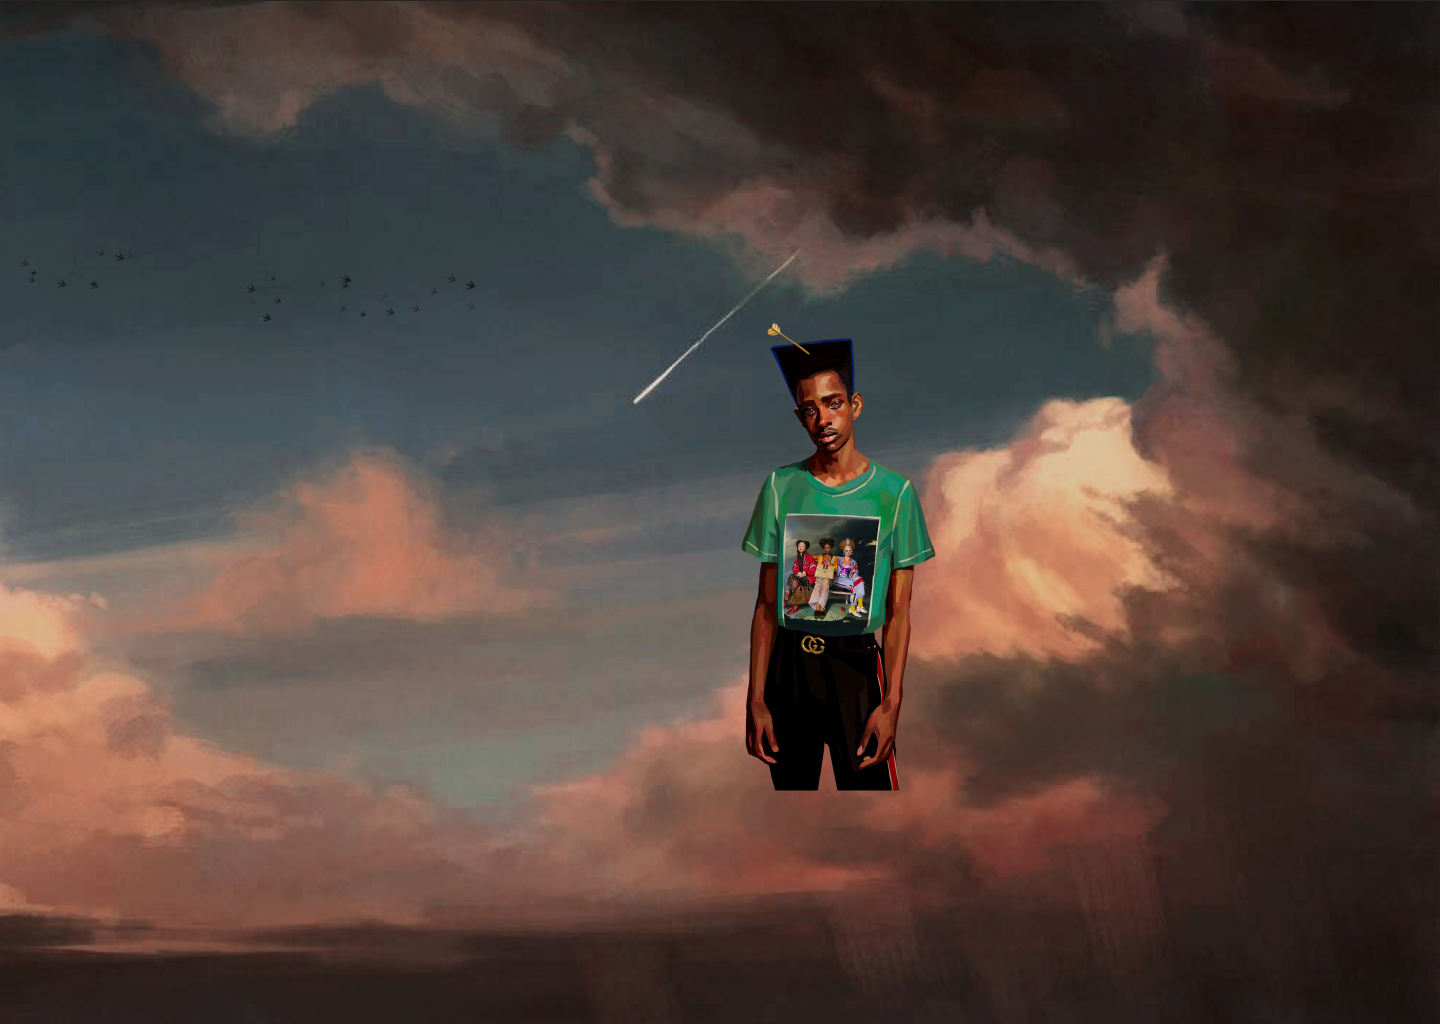
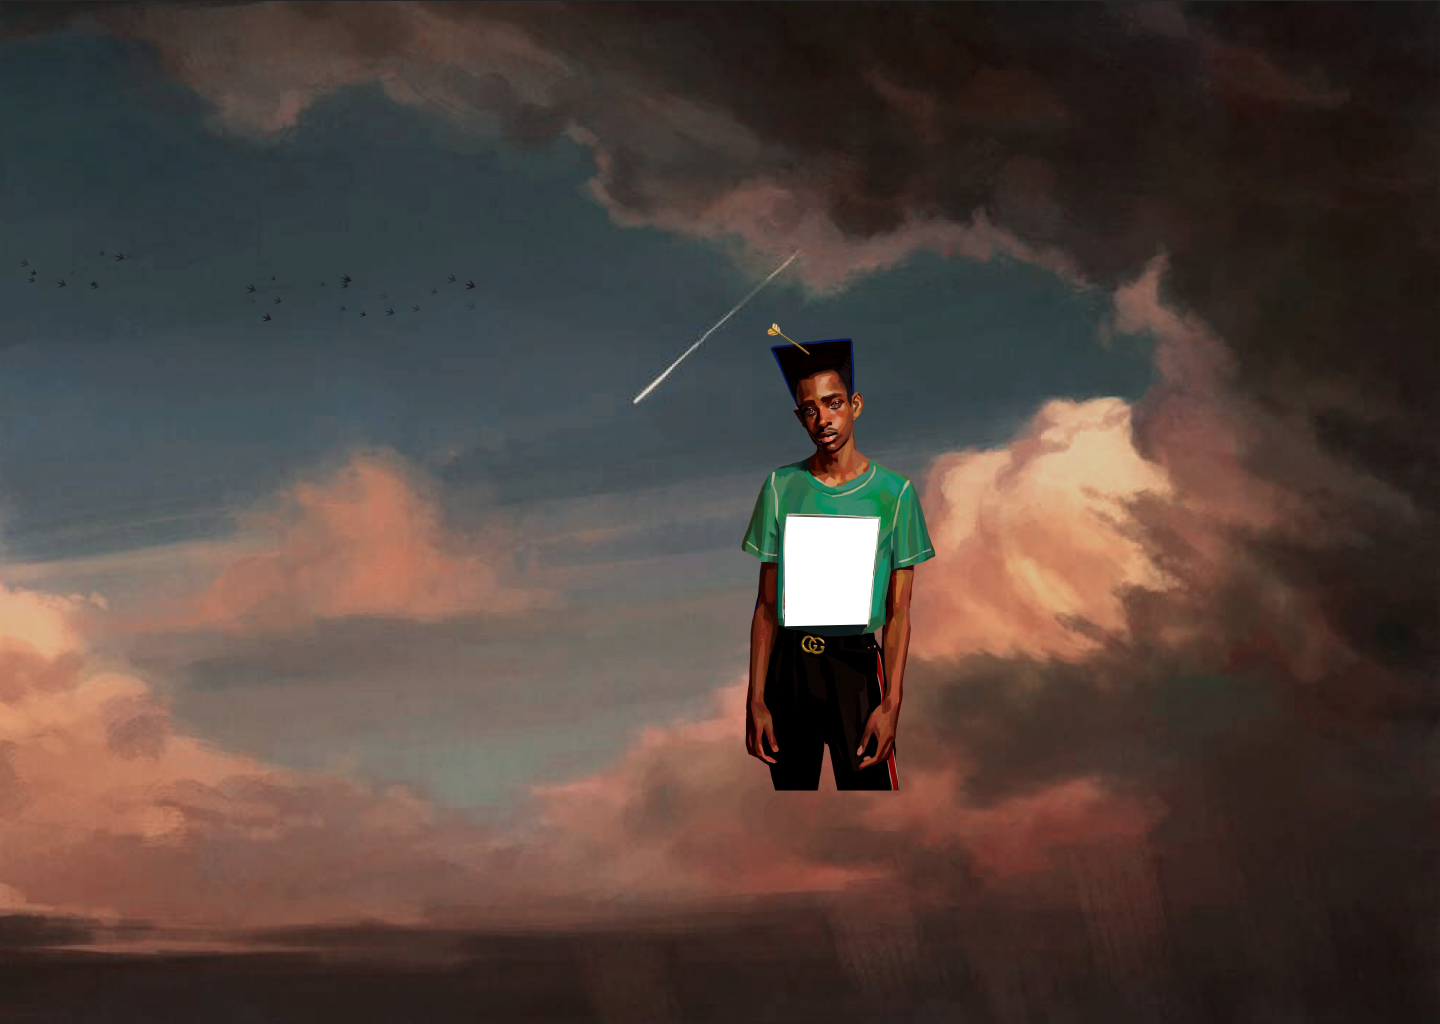
updated the code to have a cyclical page change

Changed region(s): [[0.5312, 0.5, 0.625, 0.625]]

diff --git a/src/components/App.jsx b/src/components/App.jsx
@@ -22,83 +22,35 @@ import bg from '../assets/scene-1-bg.jpg';
 import clouds1 from '../assets/clouds-large.png';
 import selfieGirls from '../assets/Scene_SelfieGirls.png';
 
+import sceneImage1Path from '../assets/testscene1.png';
+import sceneImage2Path from '../assets/testscene2.png';
+import sceneImage3Path from '../assets/testscene3.png';
+
+const sceneImageArray = [sceneImage1Path,sceneImage2Path,sceneImage3Path];
+
+
+
 // The reducer
 const reducer = (_, { data }) => data;
 
-const sceneState = {
-  clouds: [
-    {
-      x: -950,
-      y: -950,
-      scale: { x: 1, y: 1 },
-      zIndex: 3,
-      spriteImage: clouds1,
-      anchor: 0.5,
-      animationDirection: 'LTR'
-    },
-    {
-      x: 150,
-      y: 350,
-      scale: { x: 0.5, y: 0.5 },
-      zIndex: 3,
-      spriteImage: clouds1,
-      anchor: 0.5,
-      animationDirection: 'RTL'
-    },
-    {
-      x: -450,
-      y: -550,
-      scale: { x: 0.8, y: 0.8 },
-      zIndex: 3,
-      spriteImage: clouds1,
-      anchor: 0.5,
-      animationDirection: 'LTR'
-    }
-  ],
-  girls: {
-    distance: 0
-  }
-};
-
-// PIXI must be exposed for PIXI devtools to work
 window.PIXI = PIXI;
 
-const state = {
-  sections: 3,
-  pages: 3,
-  zoom: 75,
-  top: createRef()
-};
 
 const ScrollScene = ({ w, h }) => {
-  const mainScrollSceneRef = useRef(null);
   const subSceneRef = useRef(null);
-  const subScene2Ref = useRef(null);
-  const selfieGirlsSpriteRef = useRef(null);
-  const threeGirlsRef = useRef(null);
-  const maskRef = useRef(null);
-  const bgMaskRef = useRef(null);
-  const bgRef = useRef(null);
 
-  const cloudRefs = useRef([]);
-  const [motion, update] = useReducer(reducer);
-  const iter = useRef(0);
+
+  const [pageProgress, setPageProgress] = useState(0); //continuous between 0-3
+  const [curProgress, setCurProgress] = useState(0); //continuous between 0-1
+  const [curPage, setCurPage] = useState(0); //integral between 0-3
+  const [nextPage, setNextPage] = useState(1);
+  
 
   // scroll animation
   useEffect(() => {
     // cloud1SpriteRef.current.blendMode = PIXI.BLEND_MODES.MULTIPLY;
 
-    subSceneRef.current.pivot.set();
-
-    console.log('ScrollScene -> mainScrollSceneRef WIDTH', mainScrollSceneRef.current.width);
-    console.log('ScrollScene -> mainScrollSceneRef HEIGHT', mainScrollSceneRef.current.height);
-    console.log('ScrollScene -> subSceneRef WIDTH', subSceneRef.current.width);
-    console.log('ScrollScene -> subSceneRef HEIGHT', subSceneRef.current.height);
-
-    // maskRef.current.mask = girlSpriteRef.current;
-    // maskRef.current.mask = bgRef.current;
-    //bgRef.current.mask = bgMaskRef.current;
-
+    
 
     gsap.registerPlugin(ScrollTrigger);
 
@@ -112,68 +64,50 @@ const ScrollScene = ({ w, h }) => {
           // markers: true,
           toggleActions: 'play none none reset', // onEnter, onLeave, onEnterBack, onLeaveBack
           // Options: "play", "pause", "resume", "reset", "restart", "complete", "reverse", and "none".
-          scrub: true
+          scrub: true,
+          onUpdate: ({progress,direction,isActive})=>{
+            console.log( "onUpdate:", progress, direction, isActive);
+            var tempPageProgress = progress * 4;
+            setPageProgress( tempPageProgress );
+            setCurProgress( tempPageProgress % 1);
+            var tempCurPage = Math.floor( progress*4);
+            setCurPage( tempCurPage % 3 );
+            setNextPage( ( tempCurPage+1) %3 ); //in case the cur page is 3 and the next page is 0
+
+          }
         }
+        
       });
 
-      tl.to(
-        subSceneRef.current.scale,
-        {
-          x: 120,
-          y: 120,
-          duration: 1,
-          ease: 'power2.in'
-        },
-        'start'
-      ).to(
-        subSceneRef.current,
-        {
-          x: 8000, //the reason this value is so high is because it is being scaled to 120,
-          y: 12000, // so to zoom in on some point x and y, you have to set the x to 120*x, 120*y
-          duration: 1,
-          ease: 'power2.in' //and it has to have the same easing curve for both so they align
-        },
-        '-=1'
-      );
+      // tl.to(
+      //   subSceneRef.current.scale,
+      //   {
+      //     x: 120,
+      //     y: 120,
+      //     duration: 1,
+      //     ease: 'power2.in'
+      //   },
+      //   'start'
+      // ).to(
+      //   subSceneRef.current,
+      //   {
+      //     x: 8000, //the reason this value is so high is because it is being scaled to 120,
+      //     y: 12000, // so to zoom in on some point x and y, you have to set the x to 120*x, 120*y
+      //     duration: 1,
+      //     ease: 'power2.in' //and it has to have the same easing curve for both so they align
+      //   },
+      //   '-=1'
+      // );
     }, 1500);
   }, []);
 
-  // cloud animation
-  useTick((delta) => {
-    const i = (iter.current += 0.1);
-    let newSceneState = sceneState;
-    if (cloudRefs && cloudRefs.current) {
-      cloudRefs.current.map((cloud, i) => {
-        let animationSpeed = 1 - cloud.scale.x + 0.1;
 
-        const sprite = cloud;
-        const currentX = sprite.transform.position._x;
-        const currentY = sprite.transform.position._y;
+  useEffect( ()=>{
 
-        newSceneState.clouds[i] = {
-          ...sceneState.clouds[i],
-          x: currentX >= w / 2 ? -w / 2 - sprite.width : currentX + animationSpeed
-        };
-      });
-      update({
-        type: 'update',
-        data: { ...newSceneState }
-      });
-    }
+  }, [pageProgress]);
 
-    // update({
-    //   type: 'update',
-    //   data: {
-    //     x: currentX >= w / 2 ? -w / 2 - sprite.width : currentX + animationSpeed
-    //     // x: currentX + animationSpeed
-    //     // x: Math.sin(i) * 10, // oscilate
-    //     // y: Math.sin(i / 1.5) * 100,
-    //     // rotation: Math.sin(i) * Math.PI,
-    //     // anchor: Math.sin(i / 2),
-    //     // scale: new PIXI.Point(currentX + i, currentY + i)
-    //   }
-    // });
-  });
+
+  
 
   const sceneWidth = 1440;
   const sceneHeight = 1024;
@@ -188,60 +122,22 @@ const ScrollScene = ({ w, h }) => {
       }
       sortableChildren={true}
     >
-      {/* <Sprite ref={maskRef} image={mask} scale={{ x: 1, y: 1 }} anchor={0.5} zIndex={6} />
-      <Sprite ref={girlSpriteRef} image={girls} mask={maskRef.current} scale={{ x: 0.5, y: 0.5 }} anchor={0.5} zIndex={5} /> */}
-      {/* <Sprite ref={bgRef} image={bg} x={0} y={0} scale={{ x: 1.5, y: 1.5 }} anchor={0.5} zIndex={0.1} /> */}
-
-      <Container sortableChildren={true} ref={mainScrollSceneRef}>
-        <Container ref={subSceneRef} zIndex={7}>
-          {/* <Sprite ref={bgRef} image={tbg} scale={{ x: 1, y: 1 }} anchor={0.5} /> */}
-          {/* <Sprite ref={bgMaskRef} image={tmask} scale={{ x: 1, y: 1 }} anchor={0.5} /> */}
-          <Container ref={selfieGirlsSpriteRef} >
-            <Sprite //can be swapped out with the normal sprite at normal scale if they use a non-webp capable browser  
-              image={selfieGirls}
+      <Sprite //can be swapped out with the normal sprite at normal scale if they use a non-webp capable browser  
+              image={sceneImageArray[curPage]}
               
-              scale={[1440 / 7262, 1440 / 7262]}
-              anchor={0.5}
-              zIndex={0.5}
-              position={[-21, -80]}
-            />
-          </Container>
-          <Sprite //does the z index of the mask matter?
-            ref={maskRef} image={phoneMask} scale={[1440 / 7262, 1440 / 7262]} anchor={0.5} zIndex={9} position={[-21, -80]} />
-
-          {/* <Sprite ref={maskRef} image={maskTest} scale={{ x: 1, y: 1 }} anchor={0.5} zIndex={6} /> */}
-        </Container>
-        <Container ref={subScene2Ref} zIndex={9} mask={maskRef.current}>          
-          <Container ref={threeGirlsRef} >
-            <Sprite //can be swapped out with the normal sprite at normal scale if they use a non-webp capable browser  
-              image={threeGirlsFile}
-              
-              scale={[1440 / 2928, 1440 / 2928]}
-              anchor={0.5}
-              zIndex={0.5}
-              position={[-21, -80]}
-            />
-          </Container>
           
-
-          {/* <Sprite ref={maskRef} image={maskTest} scale={{ x: 1, y: 1 }} anchor={0.5} zIndex={6} /> */}
-        </Container>
-
-        {sceneState.clouds.map((cloud, i) => {
-          return (
-            <Sprite
-              key={i}
-              ref={(el) => (cloudRefs.current[i] = el)}
-              image={clouds1}
-              x={cloud.x}
-              y={cloud.y}
-              scale={cloud.scale}
-              zIndex={10}
-              anchor={0}
+              anchor={0.5}
+              zIndex={2}
+              scale={1+(curProgress *5)}
             />
-          );
-        })}
-      </Container>
+        <Sprite //can be swapped out with the normal sprite at normal scale if they use a non-webp capable browser  
+          image={sceneImageArray[nextPage]}
+          
+          
+          anchor={0.5}
+          zIndex={1}
+          // position={[-21, -80]}
+        />
     </Container>
   );
 };
@@ -263,14 +159,9 @@ const Size = ({ children }) => {
 
 export const App = () => {
   const scrollArea = useRef();
-  const onScroll = (e) => (state.top.current = e.target.scrollTop);
+  
 
-  useEffect(() => void onScroll({ target: scrollArea.current }), []);
-
-  useEffect(() => {
-    console.log('state.top.current', state.top.current);
-  }, [state.top.current]);
-
+  
   return (
     <>
       <Stage
@@ -284,8 +175,8 @@ export const App = () => {
       >
         <Size>{({ width, height }) => <ScrollScene w={width} h={height} />}</Size>
       </Stage>
-      <div ref={scrollArea} onScroll={onScroll}>
-        <div style={{ height: `${state.pages * 100}vh` }} />
+      <div ref={scrollArea} >
+        <div style={{ height: `${3 * 500}vh` }} />
       </div>
     </>
   );
